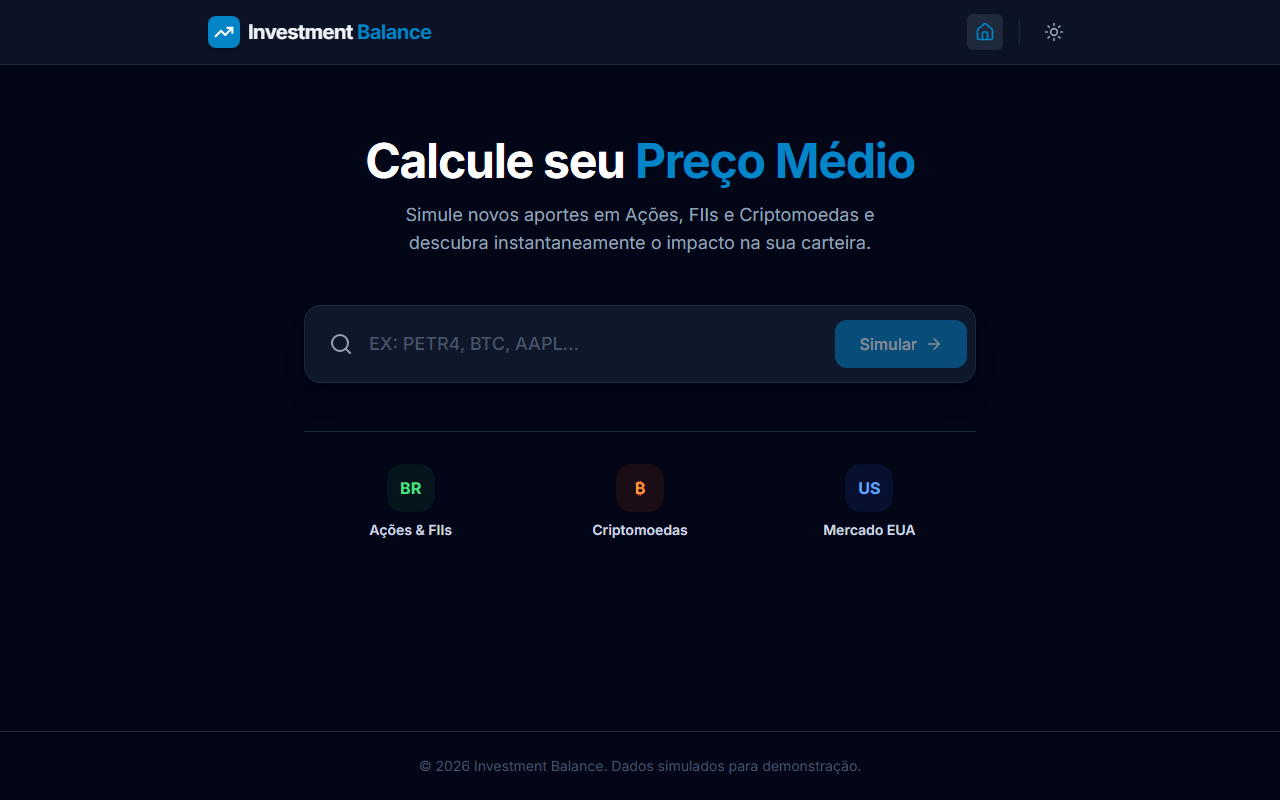
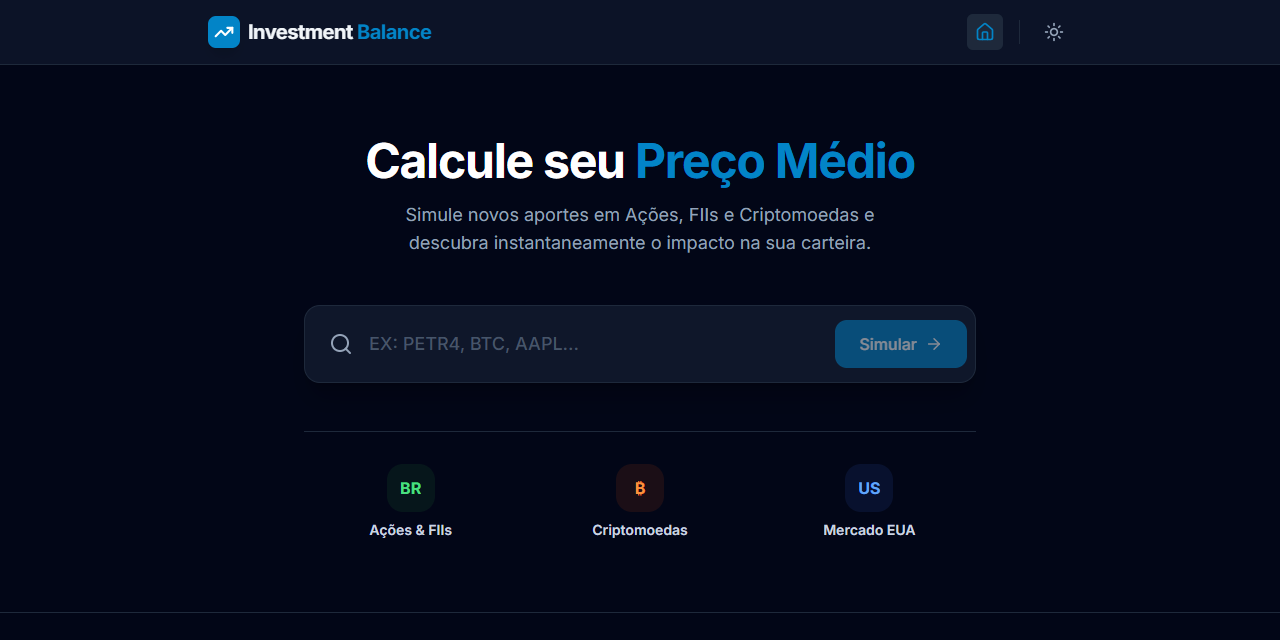
docs: equal-size screenshots with real data, add Bazin view
Claude-Session: https://claude.ai/code/session_01NyABMSBtTLEUbfeAtuEHp9

diff --git a/README.md b/README.md
@@ -7,9 +7,19 @@ O aplicativo suporta Ações Brasileiras, Fundos Imobiliários (FIIs), Criptomoe
 🔗 **Acesse:** [investment-balance.vercel.app](https://investment-balance.vercel.app/)
 
 <p align="center">
-  <img src="docs/home.png" alt="Tela inicial do Investment Balance" width="49%" />
-  <img src="docs/simulator.png" alt="Simulador de preço médio para PETR4" width="49%" />
+  <img src="docs/home.png" alt="Tela inicial do Investment Balance" width="100%" />
 </p>
+
+<table>
+  <tr>
+    <td width="50%" align="center"><img src="docs/simulator.png" alt="Simulação de aporte e novo preço médio para PETR4" /></td>
+    <td width="50%" align="center"><img src="docs/bazin.png" alt="Preço teto pelo Método Bazin com média de 5 anos de DY" /></td>
+  </tr>
+  <tr>
+    <td align="center"><sub><b>Simulador de Preço Médio</b></sub></td>
+    <td align="center"><sub><b>Preço Teto (Método Bazin)</b></sub></td>
+  </tr>
+</table>
 
 ---
 
